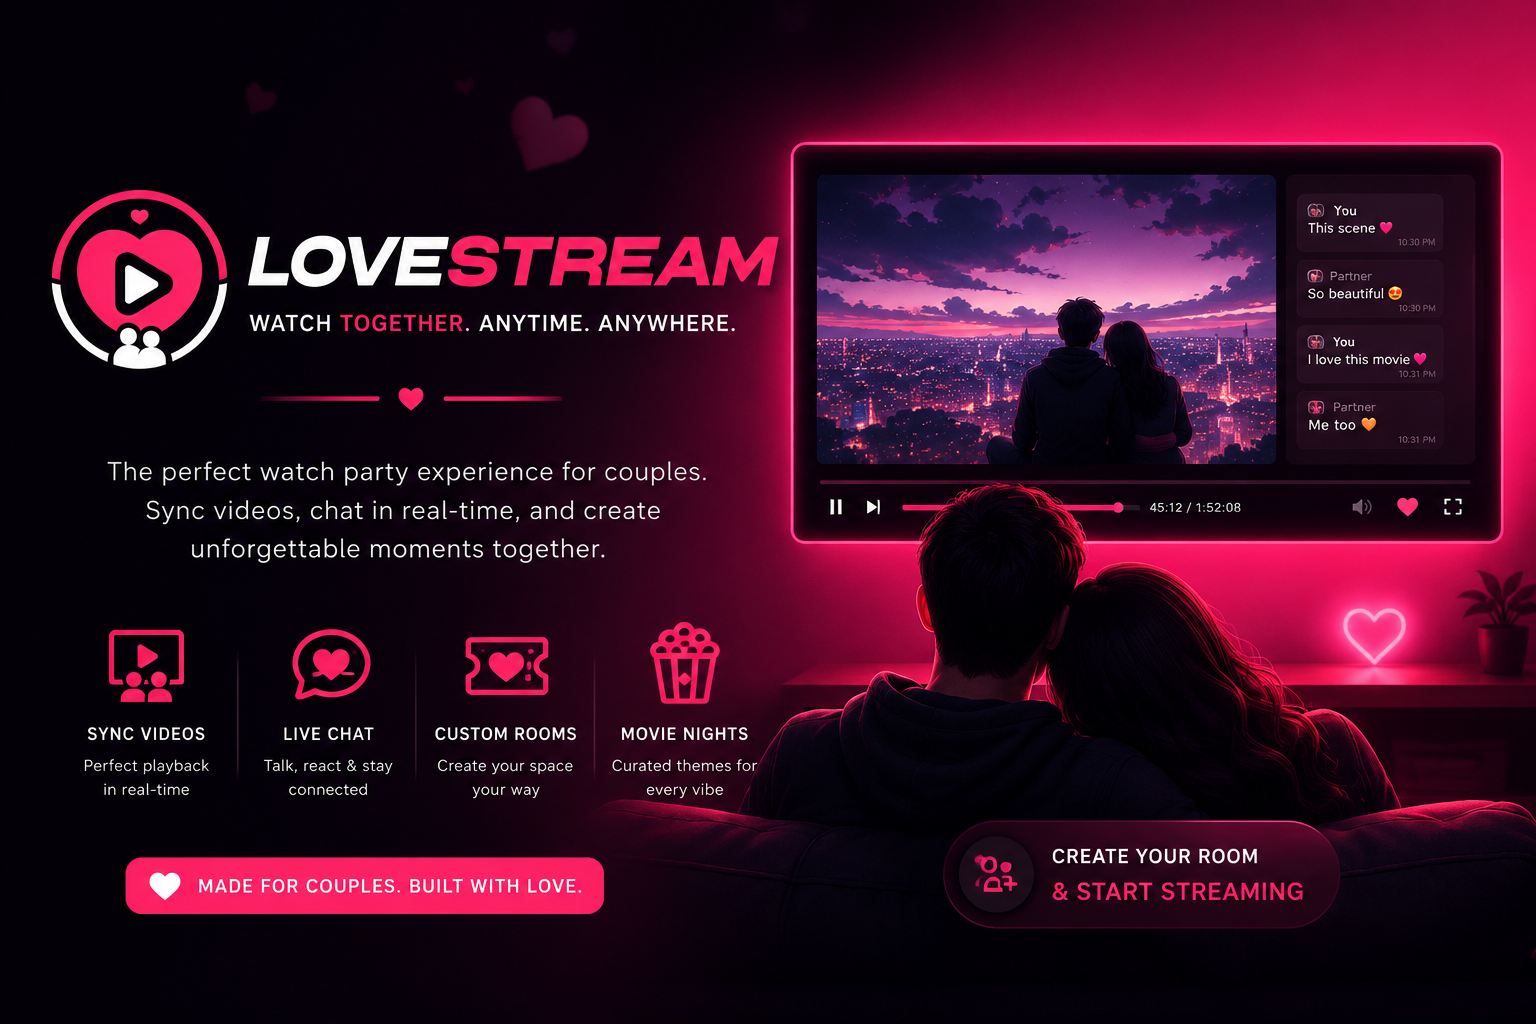
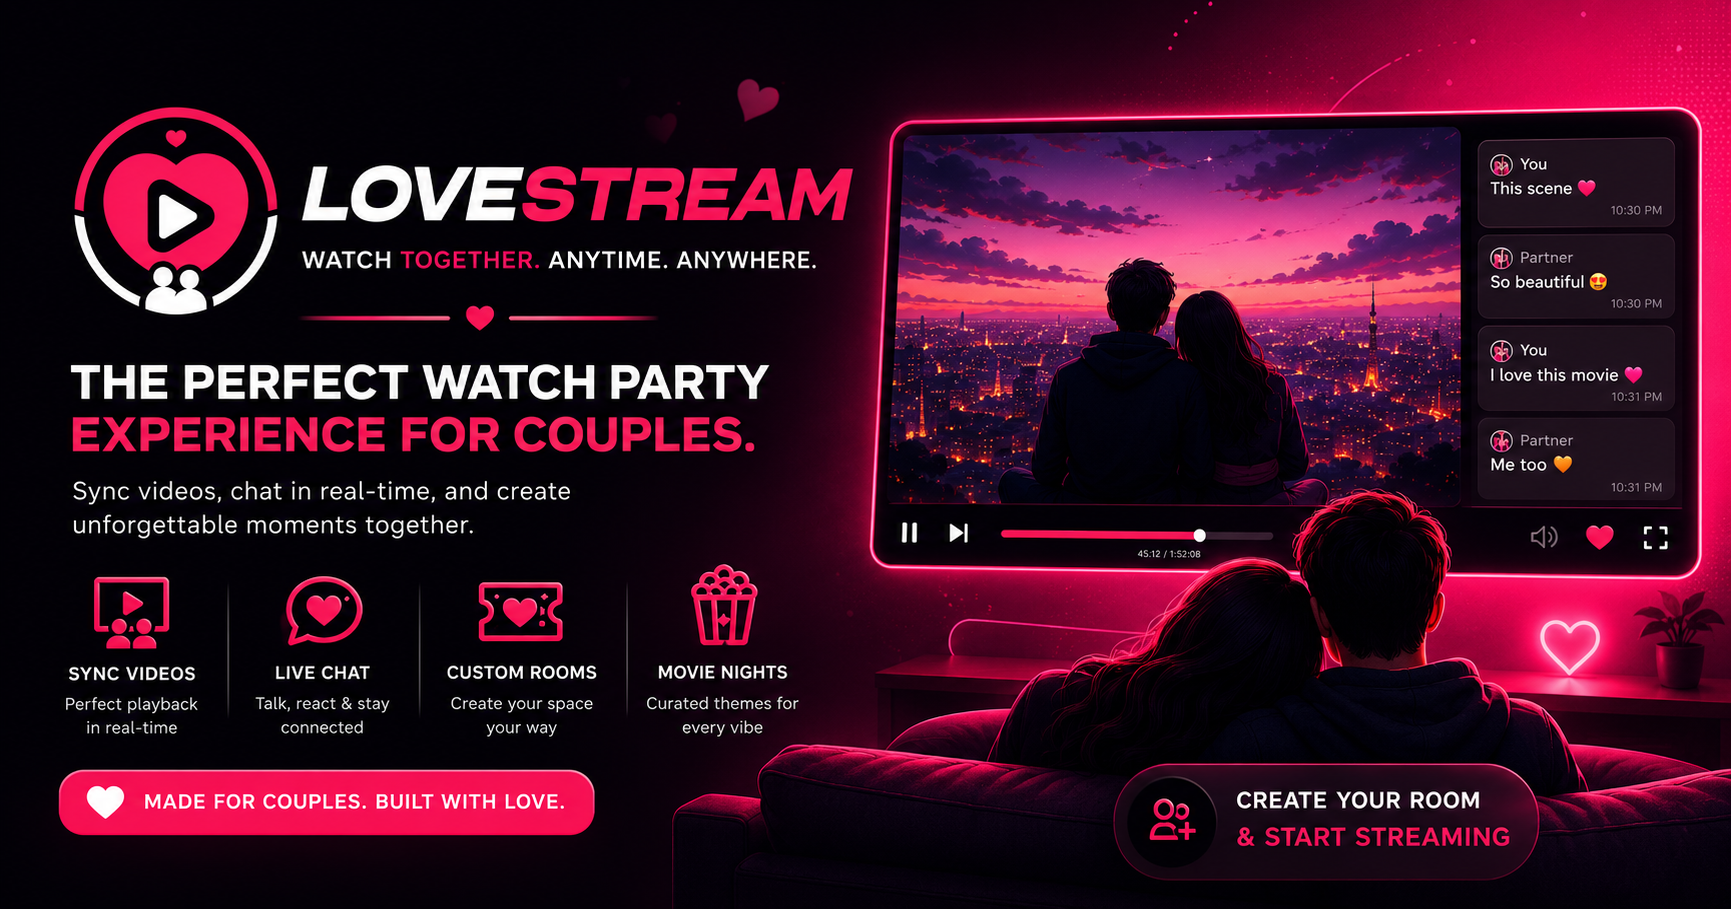
fix: OG metadata for Instagram/social media crawlers
- Optimized OG image: 1.8MB PNG → 133KB JPEG (1200x630 exact)
- Fixed image dimensions mismatch (was 1731x909, now 1200x630)
- Added proper Content-Type and Cache-Control headers for static assets
- Created sitemap.xml (was referenced in robots.txt but missing)
- Updated JSON-LD screenshot URL to use optimized image

diff --git a/server.ts b/server.ts
@@ -642,8 +642,29 @@ async function startServer() {
     app.use(vite.middlewares);
     console.log("[Vite] Running in development mode with Vite middleware.");
   } else {
+    // In bundled CJS output, __dirname = dist/. Go up one level if needed.
     const distPath = path.join(process.cwd(), "dist");
-    app.use(express.static(distPath));
+
+    // Serve static files with proper caching for social media crawlers
+    app.use(
+      express.static(distPath, {
+        maxAge: "1h",
+        setHeaders: (res, filePath) => {
+          // Set long cache + proper content-type for OG images
+          if (filePath.endsWith(".jpg") || filePath.endsWith(".jpeg")) {
+            res.setHeader("Content-Type", "image/jpeg");
+            res.setHeader("Cache-Control", "public, max-age=86400"); // 24h
+          } else if (filePath.endsWith(".png")) {
+            res.setHeader("Content-Type", "image/png");
+            res.setHeader("Cache-Control", "public, max-age=86400");
+          } else if (filePath.endsWith(".xml")) {
+            res.setHeader("Content-Type", "application/xml");
+          }
+        },
+      })
+    );
+
+    // SPA catch-all: serve index.html for all non-file routes
     app.get("*", (req, res) => {
       res.sendFile(path.join(distPath, "index.html"));
     });

diff --git a/index.html b/index.html
@@ -29,12 +29,12 @@
   <meta property="og:title" content="LoveStream – Watch YouTube Together in Real Time" />
   <meta property="og:description" content="Watch YouTube videos in perfect sync with your partner or friends. Private rooms, live chat, emoji reactions — no account needed." />
   <meta property="og:url" content="https://love-stream.onrender.com/" />
-  <meta property="og:image" content="https://love-stream.onrender.com/preview.png" />
-  <meta property="og:image:secure_url" content="https://love-stream.onrender.com/preview.png" />
-  <meta property="og:image:type" content="image/png" />
+  <meta property="og:image" content="https://love-stream.onrender.com/og-image.jpg" />
+  <meta property="og:image:secure_url" content="https://love-stream.onrender.com/og-image.jpg" />
+  <meta property="og:image:type" content="image/jpeg" />
   <meta property="og:image:width" content="1200" />
   <meta property="og:image:height" content="630" />
-  <meta property="og:image:alt" content="LoveStream – Watch YouTube Together" />
+  <meta property="og:image:alt" content="LoveStream – Watch YouTube Together in Real Time" />
   <meta property="og:locale" content="en_US" />
 
   <!-- ═══════════════════════════════════════════════════════
@@ -42,10 +42,17 @@
   ════════════════════════════════════════════════════════ -->
   <meta name="twitter:card" content="summary_large_image" />
   <meta name="twitter:site" content="@lovestream" />
+  <meta name="twitter:creator" content="@lovestream" />
   <meta name="twitter:title" content="LoveStream – Watch YouTube Together in Real Time" />
   <meta name="twitter:description" content="Watch YouTube videos in perfect sync with your partner or friends. Private rooms, live chat, emoji reactions — no account needed." />
-  <meta name="twitter:image" content="https://love-stream.onrender.com/preview.png" />
-  <meta name="twitter:image:alt" content="LoveStream – Watch YouTube Together" />
+  <meta name="twitter:image" content="https://love-stream.onrender.com/og-image.jpg" />
+  <meta name="twitter:image:alt" content="LoveStream – Watch YouTube Together in Real Time" />
+
+  <!-- ═══════════════════════════════════════════════════════
+       INSTAGRAM / ADDITIONAL SOCIAL META
+  ════════════════════════════════════════════════════════ -->
+  <meta property="instapp:owner_platform_id" content="lovestream" />
+  <meta property="al:web:url" content="https://love-stream.onrender.com/" />
 
   <!-- ═══════════════════════════════════════════════════════
        THEME & APP META
@@ -81,7 +88,7 @@
       "Private room codes",
       "No account required"
     ],
-    "screenshot": "https://love-stream.onrender.com/preview.png",
+    "screenshot": "https://love-stream.onrender.com/og-image.jpg",
     "image": "https://love-stream.onrender.com/logo.png"
   }
   </script>